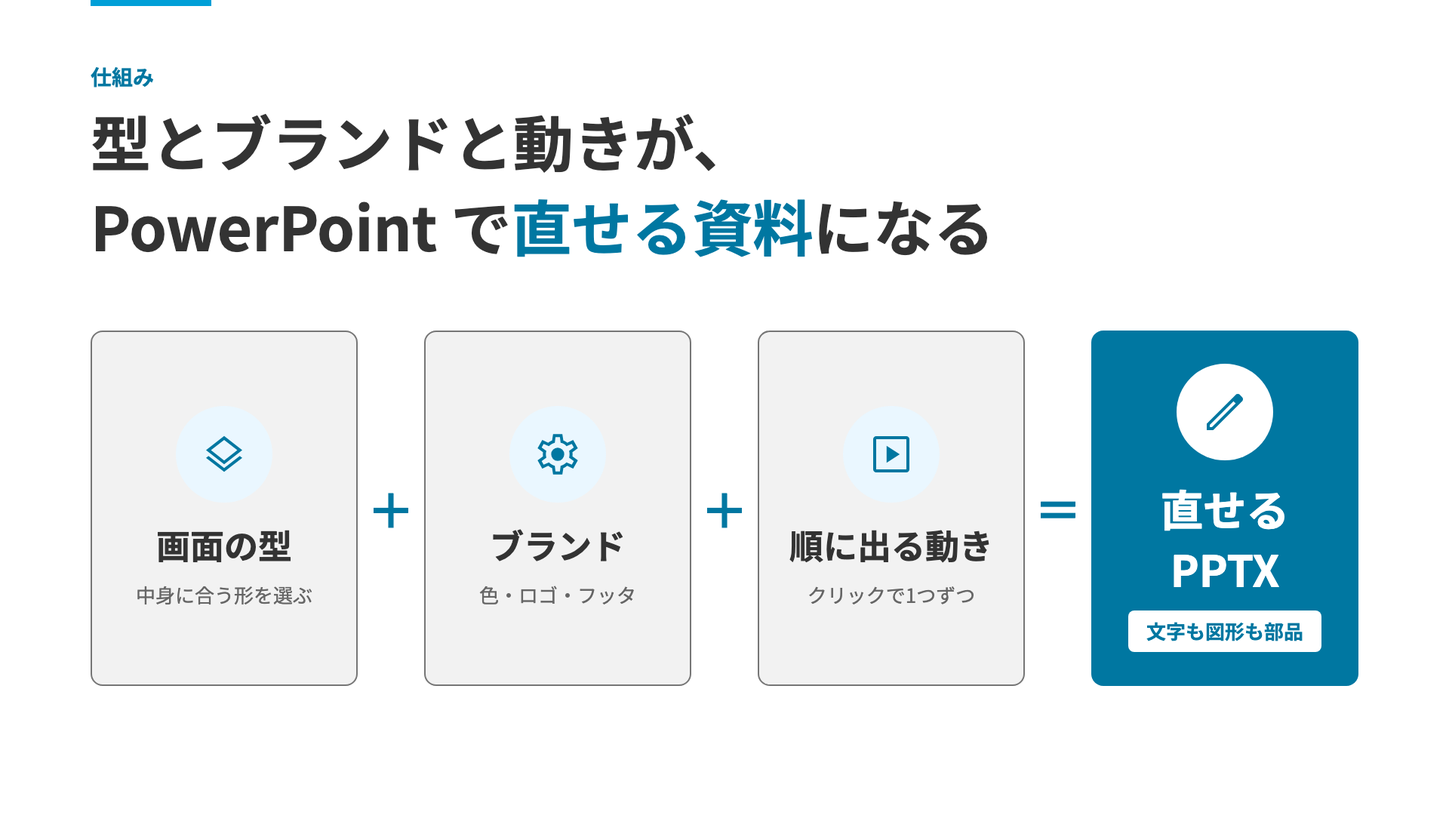
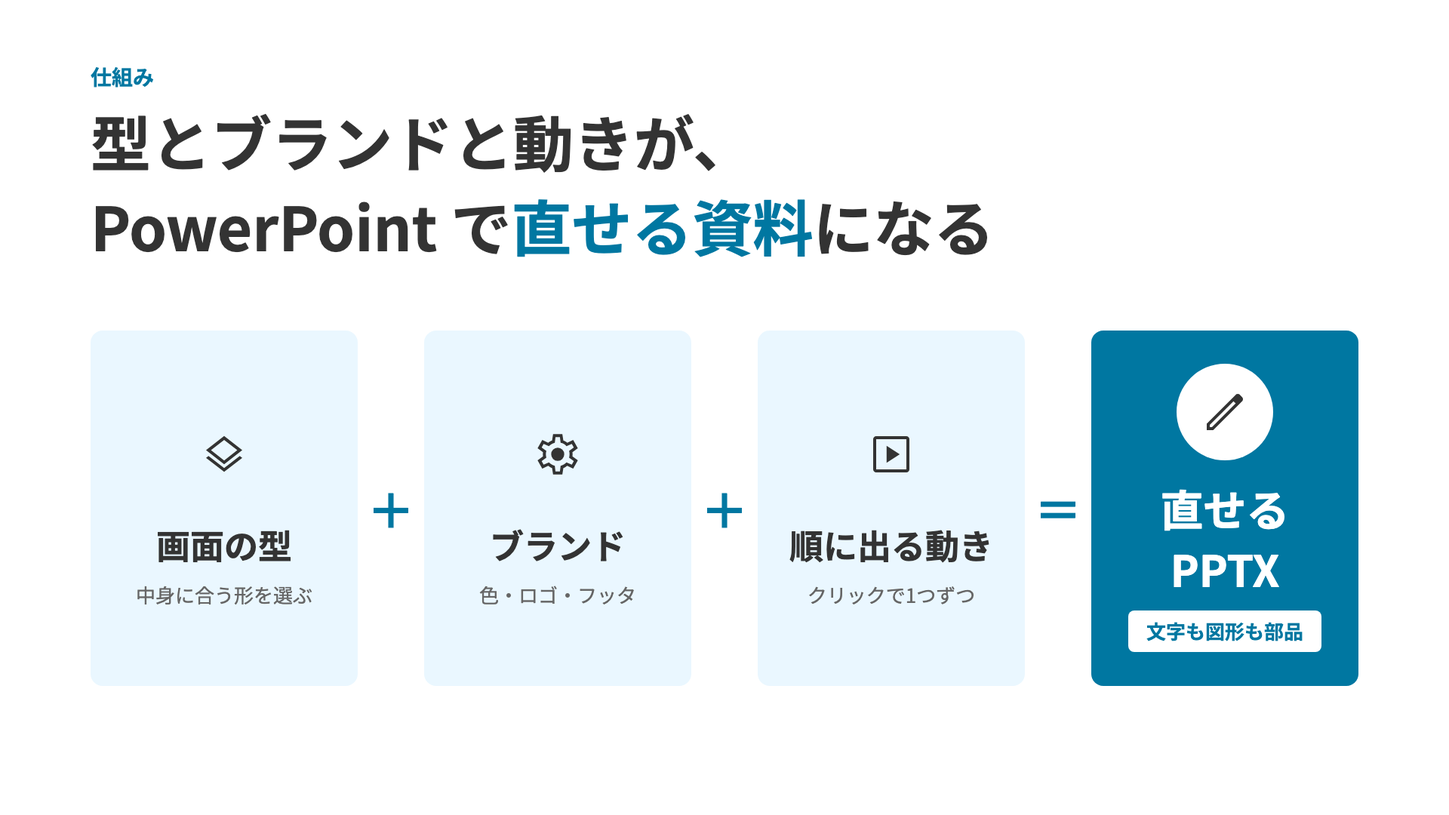
fix: 型の数の見本と台本の文字の検査を layers に合わせ、プレゼンの見本を新しい既定で作り直す
- プレゼンの見本の型の数を 29 から 30 にする
- 台本の文字の検査（jlint）に、layers の links（矢印の名札）を表示する文字のキーとして足す
- samples/build.py でプレゼンの見本の built/ を作り直す（standard の見た目が変わったため。絵の枠は無く、画像生成は呼ばない）

diff --git a/samples/presentation/built/run/present/deck.html b/samples/presentation/built/run/present/deck.html
@@ -9,7 +9,7 @@
     <style>
       @font-face { font-family: "Noto Sans JP"; font-weight: 400; src: url("file://{{HOME}}/fonts/noto-sans-jp/NotoSansJP-Regular.ttf"); ascent-override: 93.60%; descent-override: 6.40%; line-gap-override: 0%; }
       @font-face { font-family: "Noto Sans JP"; font-weight: 700; src: url("file://{{HOME}}/fonts/noto-sans-jp/NotoSansJP-Bold.ttf"); ascent-override: 93.60%; descent-override: 6.40%; line-gap-override: 0%; }
-      :root { --bg: #ffffff; --ink: #333333; --surface: #f2f2f2; --muted: #666666; --faint: #767676; --rule: #767676; --rule-weak: #949494; --bar: #949494; --tint: #eaf7ff; --primary-soft: #eaf7ff; --accent-soft: #eaf7ff; --primary: #0077a1; --primary-text: #0077a1; --primary-mark: #0096cb; --primary-decor: #009fd7; --primary-strong: #0077a1; --on-primary: #ffffff; --primary-on-dark: #79cdea; --accent: #0077a1; --accent-text: #0077a1; --accent-mark: #0096cb; --accent-decor: #009fd7; --accent-strong: #0077a1; --on-accent: #ffffff; --accent-on-dark: #79cdea; --scrim: rgba(51, 51, 51, 0.86); --scrim-0: rgba(51, 51, 51, 0); --scrim-quote: rgba(51, 51, 51, 0.86); --veil: rgba(255, 255, 255, 0.94); --veil-0: rgba(255, 255, 255, 0); --primary-on-light: #00769f; --accent-on-light: #00769f; --success-1: #259d63; --success-2: #197a4b; --error-1: #ec0000; --error-2: #ce0000; --warning-yellow-1: #b78f00; --warning-yellow-2: #927200; --warning-orange-1: #fb5b01; --warning-orange-2: #c74700; }
+      :root { --bg: #ffffff; --ink: #333333; --surface: #f2f2f2; --muted: #666666; --faint: #767676; --rule: #767676; --rule-weak: #949494; --bar: #949494; --tint: #eaf7ff; --deep: #18232a; --deep-pop: #0db4f2; --tone-good-bg: #eef7f3; --tone-good-text: #197a4b; --tone-warn-bg: #f9f6eb; --tone-warn-text: #8b6c00; --tone-bad-bg: #fdebeb; --tone-bad-text: #ce0000; --tone-neutral-bg: #f2f2f2; --tone-neutral-text: #666666; --ref-bg: #f8f8f8; --ref-text: #666666; --ref-rule: #767676; --group-a-bg: #eef7f3; --group-a-text: #197a4b; --group-a-rule: #259d63; --group-b-bg: #fff2eb; --group-b-text: #c54600; --group-b-rule: #f75900; --group-c-bg: #eff2ff; --group-c-text: #0017c1; --group-c-rule: #3460fb; --bar-good-strong: #005e37; --bar-good-strong-text: #197a4b; --bar-good: #007f4b; --bar-good-text: #197a4b; --bar-good-soft: #279e64; --bar-good-soft-text: #197a4b; --bar-warn: #ad8700; --bar-warn-text: #886a00; --bar-bad: #ec0000; --bar-bad-text: #ce0000; --primary-soft: #eaf7ff; --accent-soft: #eaf7ff; --on-deep: #ffffff; --primary: #0077a1; --primary-text: #0077a1; --primary-mark: #0096cb; --primary-decor: #009fd7; --primary-strong: #0077a1; --on-primary: #ffffff; --primary-fill: #0db4f2; --on-primary-fill: #333333; --primary-on-dark: #79cdea; --accent: #0077a1; --accent-text: #0077a1; --accent-mark: #0096cb; --accent-decor: #009fd7; --accent-strong: #0077a1; --on-accent: #ffffff; --accent-fill: #0db4f2; --on-accent-fill: #333333; --accent-on-dark: #79cdea; --scrim: rgba(51, 51, 51, 0.86); --scrim-0: rgba(51, 51, 51, 0); --scrim-quote: rgba(51, 51, 51, 0.86); --veil: rgba(255, 255, 255, 0.94); --veil-0: rgba(255, 255, 255, 0); --primary-on-light: #00769f; --accent-on-light: #00769f; --success-1: #259d63; --success-2: #197a4b; --error-1: #ec0000; --error-2: #ce0000; --warning-yellow-1: #b78f00; --warning-yellow-2: #927200; --warning-orange-1: #fb5b01; --warning-orange-2: #c74700; }
       * { margin: 0; padding: 0; box-sizing: border-box; }
       body { background-color: #8a8f99; }
       section[data-slide] {
@@ -149,6 +149,12 @@
       .chip.done .chip-t { color: var(--primary-text); }
       .chip.todo { background-color: var(--bg); color: var(--ink); border: 2px solid var(--rule); }
       .chip.line { background-color: var(--bg); color: var(--ink); border: 2px solid var(--rule); }
+      .chip.group { background-color: var(--bg); border: 2px solid; }
+      .chip.group-a { color: var(--group-a-text); border-color: var(--group-a-text); }
+      .chip.group-b { color: var(--group-b-text); border-color: var(--group-b-text); }
+      .chip.group-c { color: var(--group-c-text); border-color: var(--group-c-text); }
+      .chip.ref { background-color: var(--bg); color: var(--ref-text); border: 2px solid var(--ref-text); }   /* 参考の札: 退いた色の語と枠（色だけで示さない） */
+      .chip.notice-tag { background-color: #ffffff; border: 2px solid; margin-bottom: 0; }   /* notice の札: 枠の白い面に kind の色（-2）の輪郭と文字 */
       .chips { display: flex; align-items: center; margin-bottom: 24px; }
       .chips .cmp-chip { margin-bottom: 0; }
       .chips .chip { margin-bottom: 0; margin-left: 16px; }
@@ -217,7 +223,18 @@
       .bar-value { font-size: 36px; line-height: 1.4; font-weight: 700; margin-bottom: 8px; white-space: nowrap; }
       .bar { border-radius: 8px 8px 0 0; background-color: var(--bar); }
       .bar.hl { background-color: var(--accent-mark); }
+      .bar.tone-good-strong { background-color: var(--bar-good-strong); }
+      .bar.tone-good { background-color: var(--bar-good); }
+      .bar.tone-good-soft { background-color: var(--bar-good-soft); }
+      .bar.tone-warn { background-color: var(--bar-warn); }
+      .bar.tone-bad { background-color: var(--bar-bad); }
+      .bar-value.tone-good-strong { color: var(--bar-good-strong-text); }
+      .bar-value.tone-good { color: var(--bar-good-text); }
+      .bar-value.tone-good-soft { color: var(--bar-good-soft-text); }
+      .bar-value.tone-warn { color: var(--bar-warn-text); }
+      .bar-value.tone-bad { color: var(--bar-bad-text); }
       .bar-label { position: absolute; font-size: 28px; line-height: 1.5; text-align: center; color: var(--ink); }
+      .bar-label.bold { font-weight: 700; }
       .bar-label.hl { font-weight: 700; color: var(--accent-text); }
       .baseline { position: absolute; height: 4px; background-color: var(--rule); }
       .bar-unit { position: absolute; font-size: 22px; line-height: 1.5; color: var(--muted); }
@@ -237,6 +254,20 @@
       .td.hl div { font-weight: 700; }
       .tr.th .td.hl { background-color: var(--accent-strong); }
       .tr.th .td.hl div { color: var(--on-accent); }
+      .td.tone-good { background-color: var(--tone-good-bg); }
+      .td.tone-warn { background-color: var(--tone-warn-bg); }
+      .td.tone-bad { background-color: var(--tone-bad-bg); }
+      .td.tone-good div, .td.tone-good em { color: var(--tone-good-text); }
+      .td.tone-warn div, .td.tone-warn em { color: var(--tone-warn-text); }
+      .td.tone-bad div, .td.tone-bad em { color: var(--tone-bad-text); }
+      .tr.dim .td div, .tr.dim .td em { color: var(--muted); }
+      .tone-legend { position: absolute; display: flex; align-items: center; height: 33px; }
+      .tone-legend-item { display: flex; align-items: center; margin-right: 40px; }
+      .tone-legend-swatch { width: 24px; height: 24px; margin-right: 16px; border: 2px solid var(--muted); border-radius: 4px; background-color: var(--muted); }
+      .tone-legend-text { line-height: 1.5; color: var(--muted); white-space: nowrap; }
+      .tone-legend-item.tone-good .tone-legend-swatch { background-color: var(--tone-good-bg); border-color: var(--tone-good-text); }
+      .tone-legend-item.tone-warn .tone-legend-swatch { background-color: var(--tone-warn-bg); border-color: var(--tone-warn-text); }
+      .tone-legend-item.tone-bad .tone-legend-swatch { background-color: var(--tone-bad-bg); border-color: var(--tone-bad-text); }
 
       /* 写真 */
       .scrim { position: absolute; display: flex; flex-direction: column; background-color: var(--scrim); border-radius: 12px; padding: 48px 56px; }
@@ -296,7 +327,15 @@
       .kpi-value { line-height: 1.0; font-weight: 700; }
       .kpi-unit { line-height: 1.0; font-weight: 700; margin-left: 16px; }
       .kpi.hl .kpi-value, .kpi.hl .kpi-unit { color: var(--accent-text); }
-      .kpi-delta { font-size: 28px; line-height: 1.5; font-weight: 700; margin-top: 16px; }
+      .kpi.group-a { background-color: var(--group-a-bg); border-color: var(--group-a-rule); }
+      .kpi.group-b { background-color: var(--group-b-bg); border-color: var(--group-b-rule); }
+      .kpi.group-c { background-color: var(--group-c-bg); border-color: var(--group-c-rule); }
+      .kpi.ref { background-color: var(--ref-bg); border: 2px dashed var(--ref-rule); }   /* 参考: 退いた地・点線の枠・一段薄い文字（ラベル・数字・単位） */
+      .kpi.ref .kpi-label, .kpi.ref .kpi-value, .kpi.ref .kpi-unit { color: var(--ref-text); }
+      .kpi-delta { align-self: flex-start; font-size: 28px; line-height: 1.5; font-weight: 700; margin-top: 16px; padding: 8px 16px; border: 2px solid; border-radius: 9999px; }   /* 枠は tone の文字色（地の淡い色だけでは面に消える） */
+      .kpi-delta.tone-good { background-color: var(--tone-good-bg); color: var(--tone-good-text); border-color: var(--tone-good-text); }
+      .kpi-delta.tone-bad { background-color: var(--tone-bad-bg); color: var(--tone-bad-text); border-color: var(--tone-bad-text); }
+      .kpi-delta.tone-neutral { background-color: var(--tone-neutral-bg); color: var(--tone-neutral-text); border-color: var(--tone-neutral-text); }
       .kpi-note { font-size: 22px; line-height: 1.5; color: var(--muted); margin-top: 8px; word-break: auto-phrase; }
 
       /* 折れ線（目盛り線は白の地の上だけの罫 rule-weak） */
@@ -342,9 +381,9 @@
       .callout-title { font-size: 36px; line-height: 1.4; font-weight: 700; color: var(--accent-text); word-break: auto-phrase; }
       /* お知らせの枠（DADS の注釈ブロック・ADR 0021）: 白い面・意味の色の枠 2px と左の色帯 16。種類はアイコン＋語でも示す */
       .col { display: flex; flex-direction: column; }
-      .notice { display: flex; flex-direction: row; flex: none; background-color: #ffffff; border: 2px solid var(--rule); }
+      .notice { display: flex; flex-direction: row; flex: none; background-color: var(--rule); border: 2px solid var(--rule); }   /* 地と枠は kind の色（左の帯の色）。白い面は .nt-main。帯は幅だけ持つ（角を丸めても帯が角から出ず、PPTX でも同じ形） */
       .nt-band { width: 16px; flex: none; align-self: stretch; }
-      .nt-main { display: flex; flex-direction: column; flex: 1; padding: 24px 40px; }
+      .nt-main { display: flex; background-color: #ffffff; flex-direction: column; flex: 1; padding: 24px 40px; }
       .nt-head { display: flex; align-items: center; margin-bottom: 8px; }
       .nt-label { line-height: 1.5; font-weight: 700; }
       .nt-title { line-height: 1.4; font-weight: 700; word-break: auto-phrase; }
@@ -368,8 +407,68 @@
       .st-dot { display: flex; align-items: center; justify-content: center; border-radius: 9999px; font-size: 32px; line-height: 1.0; font-weight: 700; }
       .st-title { line-height: 1.4; font-weight: 700; word-break: auto-phrase; }
       .st-body { line-height: 1.6; color: var(--muted); margin-top: 8px; word-break: auto-phrase; }
+      /* 主役を大きく置く組み（layout: lead）: 左は主役の色の面、右は残りを縦に積む */
+      .lead-panel { position: absolute; display: flex; flex-direction: column; justify-content: space-between; background-color: var(--primary-fill); border-radius: 16px; }
+      .lead-label { line-height: 1.5; font-weight: 700; color: var(--on-primary-fill); }
+      .lead-value { line-height: 1.2; font-weight: 700; color: var(--on-primary-fill); margin-bottom: 8px; }
+      .lead-title { line-height: 1.4; font-weight: 700; color: var(--on-primary-fill); word-break: auto-phrase; }
+      .lead-body { line-height: 1.6; color: var(--on-primary-fill); margin-top: 16px; word-break: auto-phrase; }
+      .lead-panel em { color: var(--on-primary-fill); }
+      .lead-row { position: absolute; flex-direction: row; align-items: center; min-height: 0; padding: 0 40px; }
+      .lead-row-value { line-height: 1.4; font-weight: 700; color: var(--primary-text); }
+      .lead-row-title { line-height: 1.4; font-weight: 700; word-break: auto-phrase; }
+      .lead-row-body { line-height: 1.5; color: var(--muted); word-break: auto-phrase; }
+      /* 構成図（層・箱・矢印）: 層は淡い面に枠・箱は白い面に枠（強める箱は差し色の太い枠）・矢印の名札は白い面の札 */
+      .dg-band { position: absolute; background-color: var(--surface); border: 2px solid var(--rule); border-radius: 16px; }
+      .dg-rowlabel { position: absolute; display: flex; align-items: center; }
+      .dg-rowlabel div { font-weight: 700; color: var(--primary-text); word-break: auto-phrase; }
+      .dg-node { position: absolute; display: flex; align-items: center; background-color: var(--bg); border: 2px solid var(--rule); border-radius: 12px; padding: 0 24px; }
+      .dg-node.hl { background-color: var(--accent-soft); border: 4px solid var(--accent-mark); }
+      .dg-kicker { line-height: 1.5; font-weight: 700; color: var(--primary-text); }
+      .dg-title { line-height: 1.4; font-weight: 700; word-break: auto-phrase; }
+      .dg-body { line-height: 1.5; color: var(--muted); word-break: auto-phrase; }
+      .dg-pill { position: absolute; display: flex; align-items: center; justify-content: center; background-color: var(--bg); border: 2px solid var(--rule);
+                 border-radius: 9999px; line-height: 1.0; font-weight: 700; white-space: nowrap; }
+      .dg-pill.hl { border-color: var(--accent-mark); color: var(--accent-text); }
+      .dg-hlabel { position: absolute; line-height: 1.4; font-weight: 700; text-align: center; word-break: auto-phrase; }
+      .dg-hlabel.hl { color: var(--accent-text); }
       /* スタイルの見た目の調子（look・ADR 0005 追記）。deck.py が差し込む。standard は空 */
-      
+      .card, .cmp, .kpi, .callout { background-color: var(--primary-soft); border-color: var(--primary-soft); }
+      .card.hl, .cmp.hl, .kpi.hl { border-color: var(--accent-soft); }
+      .card-bar { display: none; }
+      .dg-band { background-color: var(--primary-soft); border-color: var(--primary-soft); }
+      .dg-node { border-color: var(--bg); }
+      .card { min-height: 240px; }
+      .card.lead-row, .card.sum-col { min-height: 0; }
+      .tr.th { background-color: var(--primary-fill); border-bottom-color: var(--primary-fill); }
+      .tr.th .td div { color: var(--on-primary-fill); }
+      .tr { border-bottom-color: var(--rule-weak); }
+      .take { background-color: var(--primary-fill); border-color: var(--primary-fill); }
+      .take-t { color: var(--on-primary-fill); }
+      section[data-slide] { --take-icon: var(--on-primary-fill); --disc-ground: var(--primary-fill); --disc-ink: var(--on-primary-fill); }
+      section[data-type="cover"], section[data-type="section"] { background-color: var(--primary-fill); }
+      .cover-title, .cover-subtitle, .cover-label, .cover-meta div, .sec-title, .sec-subtitle, .sec-label, .sec-no, .cover-title em, .sec-title em { color: var(--on-primary-fill); }
+      .cover-rule { background-color: var(--on-primary-fill); }
+      .sec-panel { background-color: var(--primary-fill); }
+      .band { display: none; }
+      .card.hl, .cmp.hl, .kpi.hl { background-color: var(--accent-strong); border-color: var(--accent-strong); }
+      .card.hl div, .cmp.hl div, .kpi.hl div:where(:not(.kpi-delta)), .card.hl em, .cmp.hl em, .kpi.hl em { color: var(--on-accent); }
+      .card.hl .card-bar, .cmp.hl .cmp-dot { background-color: var(--on-accent); }
+      .kpi.hl .kpi-delta { border-color: transparent; }
+      .kpi.hl .kpi-value, .kpi.hl .kpi-unit { color: var(--on-accent); }
+      .cmp.hl .cmp-chip { background-color: var(--on-accent); color: var(--accent-strong); }
+      .card.hl .chip, .cmp.hl .chip, .kpi.hl .chip { background-color: var(--on-accent); color: var(--accent-strong); }
+      section[data-type="statement"] { background-color: var(--deep); }
+      section[data-type="statement"] div, section[data-type="statement"] em { color: var(--on-deep); }
+      section[data-type="statement"] .stmt-bar, section[data-type="statement"] .band { background-color: var(--on-deep); }
+      .take { background-color: var(--deep); border-color: var(--deep); }
+      .take-t { color: var(--on-deep); }
+      section[data-slide] { --take-icon: var(--deep-pop); }
+      .tr.th { background-color: var(--deep); border-bottom-color: var(--deep); }
+      .tr.th .td div { color: var(--on-deep); }
+      section[data-type="closing"] { background-color: var(--deep); }
+      section[data-type="closing"] .headline, section[data-type="closing"] .li-title, section[data-type="closing"] .li-body, section[data-type="closing"] .sub, section[data-type="closing"] .footer, section[data-type="closing"] .pageno { color: var(--on-deep); }
+      section[data-type="closing"] .kicker, section[data-type="closing"] .headline em { color: var(--deep-pop); }
     </style>
   </head>
   <body>
@@ -384,13 +483,13 @@
     <section data-slide data-type="equation" data-transition="fade">
       <div class="band" data-keep="band" data-name="上の帯"></div>
       <div class="head" style="width:1680px; top:80px"><div class="kicker" style="font-size:28px" data-name="小見出し">仕組み</div><h1 class="headline" style="font-size:80px; line-height:1.4" data-step="0" data-fx="rise" data-name="見出し">型とブランドと動きが、PowerPoint で<em>直せる資料</em>になる</h1></div>
-      <div class="center" style="left:120px; top:394px; width:1680px; height:558px;"><div class="row" style="height:471px"><div class="card eq-box" style="width:354.00px" data-step="1" data-fx="rise" data-delay="100" data-name="要素1"><div class="icon-disc" style="width:128px; height:128px; border-radius:9999px; background-color:var(--tint); margin-bottom:24px;"><svg width="64" height="64" viewBox="0 -960 960 960"><path d="M480-130 120-410l50-37 310 241 310-241 50 37-360 280Zm0-152L120-562l360-280 360 280-360 280Zm0-301Zm0 225 262-204-262-204-262 204 262 204Z" style="fill:var(--primary-text)"/></svg></div><div class="eq-title" style="font-size:45px">画面の型</div><div class="eq-body" style="font-size:26px">中身に合う形を選ぶ</div></div><div class="eq-op" style="width:88px" data-step="2" data-fx="pop" data-name="＋1">＋</div><div class="card eq-box" style="width:354.00px" data-step="2" data-fx="rise" data-delay="100" data-name="要素2"><div class="icon-disc" style="width:128px; height:128px; border-radius:9999px; background-color:var(--tint); margin-bottom:24px;"><svg width="64" height="64" viewBox="0 -960 960 960"><path d="m388-80-20-126q-19-7-40-19t-37-25l-118 54-93-164 108-79q-2-9-2.5-20.5T185-480q0-9 .5-20.5T188-521L80-600l93-164 118 54q16-13 37-25t40-18l20-127h184l20 126q19 7 40.5 18.5T669-710l118-54 93 164-108 77q2 10 2.5 21.5t.5 21.5q0 10-.5 21t-2.5 21l108 78-93 164-118-54q-16 13-36.5 25.5T592-206L572-80H388Zm48-60h88l14-112q33-8 62.5-25t53.5-41l106 46 40-72-94-69q4-17 6.5-33.5T715-480q0-17-2-33.5t-7-33.5l94-69-40-72-106 46q-23-26-52-43.5T538-708l-14-112h-88l-14 112q-34 7-63.5 24T306-642l-106-46-40 72 94 69q-4 17-6.5 33.5T245-480q0 17 2.5 33.5T254-413l-94 69 40 72 106-46q24 24 53.5 41t62.5 25l14 112Zm44-210q54 0 92-38t38-92q0-54-38-92t-92-38q-54 0-92 38t-38 92q0 54 38 92t92 38Zm0-130Z" style="fill:var(--primary-text)"/></svg></div><div class="eq-title" style="font-size:45px">ブランド</div><div class="eq-body" style="font-size:26px">色・ロゴ・フッタ</div></div><div class="eq-op" style="width:88px" data-step="3" data-fx="pop" data-name="＋2">＋</div><div class="card eq-box" style="width:354.00px" data-step="3" data-fx="rise" data-delay="100" data-name="要素3"><div class="icon-disc" style="width:128px; height:128px; border-radius:9999px; background-color:var(--tint); margin-bottom:24px;"><svg width="64" height="64" viewBox="0 -960 960 960"><path d="m387-311 261-169-261-169v338ZM180-120q-24 0-42-18t-18-42v-600q0-24 18-42t42-18h600q24 0 42 18t18 42v600q0 24-18 42t-42 18H180Zm0-60h600v-600H180v600Zm0-600v600-600Z" style="fill:var(--primary-text)"/></svg></div><div class="eq-title" style="font-size:45px">順に出る動き</div><div class="eq-body" style="font-size:26px">クリックで1つずつ</div></div><div class="eq-op" style="width:88px" data-step="4" data-fx="pop" data-name="＝">＝</div><div class="eq-box eq-res" style="width:354.00px" data-step="4" data-fx="pop" data-delay="150" data-name="答え"><div class="icon-disc" style="width:128px; height:128px; border-radius:9999px; background-color:var(--on-primary); margin-bottom:24px;"><svg width="64" height="64" viewBox="0 -960 960 960"><path d="M180-180h44l472-471-44-44-472 471v44Zm-60 60v-128l575-574q8-8 19-12.5t23-4.5q11 0 22 4.5t20 12.5l44 44q9 9 13 20t4 22q0 11-4.5 22.5T823-694L248-120H120Zm659-617-41-41 41 41Zm-105 64-22-22 44 44-22-22Z" style="fill:var(--primary-text)"/></svg></div><div class="eq-title" style="font-size:57px">直せる PPTX</div><div class="eq-chip" style="font-size:26px">文字も図形も部品</div></div></div></div>
+      <div class="center" style="left:120px; top:394px; width:1680px; height:558px;"><div class="row" style="height:471px"><div class="card eq-box" style="width:354.00px" data-step="1" data-fx="rise" data-delay="100" data-name="要素1"><div class="icon-disc" style="width:128px; height:128px; border-radius:9999px; background-color:var(--tint); margin-bottom:24px;"><svg width="64" height="64" viewBox="0 -960 960 960"><path d="M480-130 120-410l50-37 310 241 310-241 50 37-360 280Zm0-152L120-562l360-280 360 280-360 280Zm0-301Zm0 225 262-204-262-204-262 204 262 204Z" style="fill:var(--disc-ink, var(--primary-text))"/></svg></div><div class="eq-title" style="font-size:45px">画面の型</div><div class="eq-body" style="font-size:26px">中身に合う形を選ぶ</div></div><div class="eq-op" style="width:88px" data-step="2" data-fx="pop" data-name="＋1">＋</div><div class="card eq-box" style="width:354.00px" data-step="2" data-fx="rise" data-delay="100" data-name="要素2"><div class="icon-disc" style="width:128px; height:128px; border-radius:9999px; background-color:var(--tint); margin-bottom:24px;"><svg width="64" height="64" viewBox="0 -960 960 960"><path d="m388-80-20-126q-19-7-40-19t-37-25l-118 54-93-164 108-79q-2-9-2.5-20.5T185-480q0-9 .5-20.5T188-521L80-600l93-164 118 54q16-13 37-25t40-18l20-127h184l20 126q19 7 40.5 18.5T669-710l118-54 93 164-108 77q2 10 2.5 21.5t.5 21.5q0 10-.5 21t-2.5 21l108 78-93 164-118-54q-16 13-36.5 25.5T592-206L572-80H388Zm48-60h88l14-112q33-8 62.5-25t53.5-41l106 46 40-72-94-69q4-17 6.5-33.5T715-480q0-17-2-33.5t-7-33.5l94-69-40-72-106 46q-23-26-52-43.5T538-708l-14-112h-88l-14 112q-34 7-63.5 24T306-642l-106-46-40 72 94 69q-4 17-6.5 33.5T245-480q0 17 2.5 33.5T254-413l-94 69 40 72 106-46q24 24 53.5 41t62.5 25l14 112Zm44-210q54 0 92-38t38-92q0-54-38-92t-92-38q-54 0-92 38t-38 92q0 54 38 92t92 38Zm0-130Z" style="fill:var(--disc-ink, var(--primary-text))"/></svg></div><div class="eq-title" style="font-size:45px">ブランド</div><div class="eq-body" style="font-size:26px">色・ロゴ・フッタ</div></div><div class="eq-op" style="width:88px" data-step="3" data-fx="pop" data-name="＋2">＋</div><div class="card eq-box" style="width:354.00px" data-step="3" data-fx="rise" data-delay="100" data-name="要素3"><div class="icon-disc" style="width:128px; height:128px; border-radius:9999px; background-color:var(--tint); margin-bottom:24px;"><svg width="64" height="64" viewBox="0 -960 960 960"><path d="m387-311 261-169-261-169v338ZM180-120q-24 0-42-18t-18-42v-600q0-24 18-42t42-18h600q24 0 42 18t18 42v600q0 24-18 42t-42 18H180Zm0-60h600v-600H180v600Zm0-600v600-600Z" style="fill:var(--disc-ink, var(--primary-text))"/></svg></div><div class="eq-title" style="font-size:45px">順に出る動き</div><div class="eq-body" style="font-size:26px">クリックで1つずつ</div></div><div class="eq-op" style="width:88px" data-step="4" data-fx="pop" data-name="＝">＝</div><div class="eq-box eq-res" style="width:354.00px" data-step="4" data-fx="pop" data-delay="150" data-name="答え"><div class="icon-disc" style="width:128px; height:128px; border-radius:9999px; background-color:var(--on-primary); margin-bottom:24px;"><svg width="64" height="64" viewBox="0 -960 960 960"><path d="M180-180h44l472-471-44-44-472 471v44Zm-60 60v-128l575-574q8-8 19-12.5t23-4.5q11 0 22 4.5t20 12.5l44 44q9 9 13 20t4 22q0 11-4.5 22.5T823-694L248-120H120Zm659-617-41-41 41 41Zm-105 64-22-22 44 44-22-22Z" style="fill:var(--disc-ink, var(--primary-text))"/></svg></div><div class="eq-title" style="font-size:57px">直せる PPTX</div><div class="eq-chip" style="font-size:26px">文字も図形も部品</div></div></div></div>
       <aside class="notes">［クリック］［クリック］［クリック］［クリック］</aside>
     </section>
     <section data-slide data-type="big-number" data-transition="fade">
       <div class="band" data-keep="band" data-name="上の帯"></div>
       <div class="head" style="width:1680px; top:80px"><div class="kicker" style="font-size:28px" data-name="小見出し">型</div><h1 class="headline" style="font-size:80px; line-height:1.4" data-step="0" data-fx="rise" data-name="見出し">中身の形に合わせて、型を選んで組む</h1></div>
-      <div class="bn-main" style="left:120px; top:282px; width:920px; height:670px;"><div data-step="1" data-fx="pop" data-name="大きな数字"><div class="bn-row"><div class="bn-value" style="font-size:200px">29</div><div class="bn-unit" style="font-size:80px">種</div></div><div class="bn-label" style="font-size:45px">画面の型（比較・グラフ・表・手順など）</div></div></div>
+      <div class="bn-main" style="left:120px; top:282px; width:920px; height:670px;"><div data-step="1" data-fx="pop" data-name="大きな数字"><div class="bn-row"><div class="bn-value" style="font-size:200px">30</div><div class="bn-unit" style="font-size:80px">種</div></div><div class="bn-label" style="font-size:45px">画面の型（比較・グラフ・表・手順など）</div></div></div>
       <div class="bn-side" style="left:1120px; top:282px; width:680px; height:670px;"><div class="bn-item" style="border-bottom:2px solid var(--rule);" data-step="2" data-fx="rise" data-name="補足1"><div class="bn-item-value" style="font-size:64px">7</div><div class="bn-item-text" style="font-size:36px">この資料で使った型</div></div></div>
       <aside class="notes">型は中身の形で選びます。比べるなら比較や表、数字ならグラフ、順番なら矢羽根です。［クリック］この資料も、ページごとに違う型で組んでいます。［クリック］結論を1行で添える帯や、項目に添えるアイコンも使えます。</aside>
     </section>
@@ -403,14 +502,14 @@
     <section data-slide data-type="cards" data-transition="fade">
       <div class="band" data-keep="band" data-name="上の帯"></div>
       <div class="head" style="width:1680px; top:80px"><div class="kicker" style="font-size:28px" data-name="小見出し">向く資料</div><h1 class="headline" style="font-size:64px; line-height:1.4" data-step="0" data-fx="rise" data-name="見出し">人に説明して、あとで手を入れる資料に向いている</h1></div>
-      <div class="center" style="left:120px; top:260px; width:1680px; height:692px;"><div class="row" style="gap:48px"><div class="card" style="width:384px" data-step="1" data-fx="rise" data-name="カード1"><div class="icon-disc" style="width:96px; height:96px; border-radius:9999px; background-color:var(--tint); margin-bottom:24px;"><svg width="56" height="56" viewBox="0 -960 960 960"><path d="M660-160v-280h140v280H660Zm-250 0v-640h140v640H410Zm-250 0v-440h140v440H160Z" style="fill:var(--primary-text)"/></svg></div><div class="card-title" style="font-size:57px">報告・定例</div><div class="card-body" style="font-size:36px">数字と進み具合</div></div><div class="card" style="width:384px" data-step="2" data-fx="rise" data-name="カード2"><div class="icon-disc" style="width:96px; height:96px; border-radius:9999px; background-color:var(--tint); margin-bottom:24px;"><svg width="56" height="56" viewBox="0 -960 960 960"><path d="M324-111.5Q251-143 197-197t-85.5-127Q80-397 80-480t31.5-156Q143-709 197-763t127-85.5Q397-880 480-880t156 31.5Q709-817 763-763t85.5 127Q880-563 880-480t-31.5 156Q817-251 763-197t-127 85.5Q563-80 480-80t-156-31.5ZM721-239q99-99 99-241t-99-241q-99-99-241-99t-241 99q-99 99-99 241t99 241q99 99 241 99t241-99Zm-411-71q-70-70-70-170t70-170q70-70 170-70t170 70q70 70 70 170t-70 170q-70 70-170 70t-170-70Zm297.5-42.5Q660-405 660-480t-52.5-127.5Q555-660 480-660t-127.5 52.5Q300-555 300-480t52.5 127.5Q405-300 480-300t127.5-52.5Zm-184-71Q400-447 400-480t23.5-56.5Q447-560 480-560t56.5 23.5Q560-513 560-480t-23.5 56.5Q513-400 480-400t-56.5-23.5Z" style="fill:var(--primary-text)"/></svg></div><div class="card-title" style="font-size:57px">提案書</div><div class="card-body" style="font-size:36px">筋道を立てて説得</div></div><div class="card" style="width:384px" data-step="3" data-fx="rise" data-name="カード3"><div class="icon-disc" style="width:96px; height:96px; border-radius:9999px; background-color:var(--tint); margin-bottom:24px;"><svg width="56" height="56" viewBox="0 -960 960 960"><path d="M560-574v-48q33-14 67.5-21t72.5-7q26 0 51 4t49 10v44q-24-9-48.5-13.5T700-610q-38 0-73 9.5T560-574Zm0 220v-49q33-13.5 67.5-20.25T700-430q26 0 51 4t49 10v44q-24-9-48.5-13.5T700-390q-38 0-73 9t-67 27Zm0-110v-48q33-14 67.5-21t72.5-7q26 0 51 4t49 10v44q-24-9-48.5-13.5T700-500q-38 0-73 9.5T560-464ZM248-300q53.57 0 104.28 12.5Q403-275 452-250v-427q-45-30-97.62-46.5Q301.76-740 248-740q-38 0-74.5 9.5T100-707v434q31-14 70.5-20.5T248-300Zm264 50q50-25 98-37.5T712-300q38 0 78.5 6t69.5 16v-429q-34-17-71.82-25-37.82-8-76.18-8-54 0-104.5 16.5T512-677v427Zm-30 90q-51-38-111-58.5T248-239q-36.54 0-71.77 9T106-208q-23.1 11-44.55-3Q40-225 40-251v-463q0-15 7-27.5T68-761q42-20 87.39-29.5 45.4-9.5 92.61-9.5 63 0 122.5 17T482-731q51-35 109.5-52T712-800q46.87 0 91.93 9.5Q849-781 891-761q14 7 21.5 19.5T920-714v463q0 27.89-22.5 42.45Q875-194 853-208q-34-14-69.23-22.5Q748.54-239 712-239q-63 0-121 21t-109 58ZM276-489Z" style="fill:var(--primary-text)"/></svg></div><div class="card-title" style="font-size:57px">社内の資料</div><div class="card-body" style="font-size:36px">手順や決まりの共有</div></div><div class="card" style="width:384px" data-step="4" data-fx="rise" data-name="カード4"><div class="icon-disc" style="width:96px; height:96px; border-radius:9999px; background-color:var(--tint); margin-bottom:24px;"><svg width="56" height="56" viewBox="0 -960 960 960"><path d="M180-180h44l472-471-44-44-472 471v44Zm-60 60v-128l575-574q8-8 19-12.5t23-4.5q11 0 22 4.5t20 12.5l44 44q9 9 13 20t4 22q0 11-4.5 22.5T823-694L248-120H120Zm659-617-41-41 41 41Zm-105 64-22-22 44 44-22-22Z" style="fill:var(--primary-text)"/></svg></div><div class="card-title" style="font-size:57px">自分で仕上げる</div><div class="card-body" style="font-size:36px">PowerPoint で手直し</div></div></div></div>
+      <div class="center" style="left:120px; top:260px; width:1680px; height:692px;"><div class="row" style="gap:48px"><div class="card" style="width:384px; height:688px; justify-content:space-between" data-step="1" data-fx="rise" data-name="カード1"><div class="icon-disc" style="width:96px; height:96px; border-radius:9999px; background-color:var(--disc-ground, var(--tint)); margin-bottom:24px;"><svg width="56" height="56" viewBox="0 -960 960 960"><path d="M660-160v-280h140v280H660Zm-250 0v-640h140v640H410Zm-250 0v-440h140v440H160Z" style="fill:var(--disc-ink, var(--primary-text))"/></svg></div><div class="col"><div class="card-title" style="font-size:57px">報告・定例</div><div class="card-body" style="font-size:36px">数字と進み具合</div></div></div><div class="card" style="width:384px; height:688px; justify-content:space-between" data-step="2" data-fx="rise" data-name="カード2"><div class="icon-disc" style="width:96px; height:96px; border-radius:9999px; background-color:var(--disc-ground, var(--tint)); margin-bottom:24px;"><svg width="56" height="56" viewBox="0 -960 960 960"><path d="M324-111.5Q251-143 197-197t-85.5-127Q80-397 80-480t31.5-156Q143-709 197-763t127-85.5Q397-880 480-880t156 31.5Q709-817 763-763t85.5 127Q880-563 880-480t-31.5 156Q817-251 763-197t-127 85.5Q563-80 480-80t-156-31.5ZM721-239q99-99 99-241t-99-241q-99-99-241-99t-241 99q-99 99-99 241t99 241q99 99 241 99t241-99Zm-411-71q-70-70-70-170t70-170q70-70 170-70t170 70q70 70 70 170t-70 170q-70 70-170 70t-170-70Zm297.5-42.5Q660-405 660-480t-52.5-127.5Q555-660 480-660t-127.5 52.5Q300-555 300-480t52.5 127.5Q405-300 480-300t127.5-52.5Zm-184-71Q400-447 400-480t23.5-56.5Q447-560 480-560t56.5 23.5Q560-513 560-480t-23.5 56.5Q513-400 480-400t-56.5-23.5Z" style="fill:var(--disc-ink, var(--primary-text))"/></svg></div><div class="col"><div class="card-title" style="font-size:57px">提案書</div><div class="card-body" style="font-size:36px">筋道を立てて説得</div></div></div><div class="card" style="width:384px; height:688px; justify-content:space-between" data-step="3" data-fx="rise" data-name="カード3"><div class="icon-disc" style="width:96px; height:96px; border-radius:9999px; background-color:var(--disc-ground, var(--tint)); margin-bottom:24px;"><svg width="56" height="56" viewBox="0 -960 960 960"><path d="M560-574v-48q33-14 67.5-21t72.5-7q26 0 51 4t49 10v44q-24-9-48.5-13.5T700-610q-38 0-73 9.5T560-574Zm0 220v-49q33-13.5 67.5-20.25T700-430q26 0 51 4t49 10v44q-24-9-48.5-13.5T700-390q-38 0-73 9t-67 27Zm0-110v-48q33-14 67.5-21t72.5-7q26 0 51 4t49 10v44q-24-9-48.5-13.5T700-500q-38 0-73 9.5T560-464ZM248-300q53.57 0 104.28 12.5Q403-275 452-250v-427q-45-30-97.62-46.5Q301.76-740 248-740q-38 0-74.5 9.5T100-707v434q31-14 70.5-20.5T248-300Zm264 50q50-25 98-37.5T712-300q38 0 78.5 6t69.5 16v-429q-34-17-71.82-25-37.82-8-76.18-8-54 0-104.5 16.5T512-677v427Zm-30 90q-51-38-111-58.5T248-239q-36.54 0-71.77 9T106-208q-23.1 11-44.55-3Q40-225 40-251v-463q0-15 7-27.5T68-761q42-20 87.39-29.5 45.4-9.5 92.61-9.5 63 0 122.5 17T482-731q51-35 109.5-52T712-800q46.87 0 91.93 9.5Q849-781 891-761q14 7 21.5 19.5T920-714v463q0 27.89-22.5 42.45Q875-194 853-208q-34-14-69.23-22.5Q748.54-239 712-239q-63 0-121 21t-109 58ZM276-489Z" style="fill:var(--disc-ink, var(--primary-text))"/></svg></div><div class="col"><div class="card-title" style="font-size:57px">社内の資料</div><div class="card-body" style="font-size:36px">手順や決まりの共有</div></div></div><div class="card" style="width:384px; height:688px; justify-content:space-between" data-step="4" data-fx="rise" data-name="カード4"><div class="icon-disc" style="width:96px; height:96px; border-radius:9999px; background-color:var(--disc-ground, var(--tint)); margin-bottom:24px;"><svg width="56" height="56" viewBox="0 -960 960 960"><path d="M180-180h44l472-471-44-44-472 471v44Zm-60 60v-128l575-574q8-8 19-12.5t23-4.5q11 0 22 4.5t20 12.5l44 44q9 9 13 20t4 22q0 11-4.5 22.5T823-694L248-120H120Zm659-617-41-41 41 41Zm-105 64-22-22 44 44-22-22Z" style="fill:var(--disc-ink, var(--primary-text))"/></svg></div><div class="col"><div class="card-title" style="font-size:57px">自分で仕上げる</div><div class="card-body" style="font-size:36px">PowerPoint で手直し</div></div></div></div></div>
       <aside class="notes">［クリック］［クリック］［クリック］［クリック］</aside>
     </section>
     <section data-slide data-type="table" data-transition="fade">
       <div class="band" data-keep="band" data-name="上の帯"></div>
       <div class="head" style="width:1680px; top:80px"><div class="kicker" style="font-size:28px" data-name="小見出し">モードの選び方</div><h1 class="headline" style="font-size:80px; line-height:1.4" data-step="0" data-fx="rise" data-name="見出し">見せ方に合わせて、3つのモードから選ぶ</h1></div>
-      <div class="table" style="left:120px; top:282px; width:1680px;" data-step="1" data-fx="fade" data-name="表"><div class="tr th" style="height:112px"><div class="td" style="width:240px; justify-content:flex-start"><div style="font-size:28px; text-align:left; font-weight:700;">観点</div></div><div class="td hl" style="width:480px; justify-content:center"><div style="font-size:28px; text-align:center; font-weight:700;">プレゼン</div></div><div class="td" style="width:480px; justify-content:center"><div style="font-size:28px; text-align:center; font-weight:700;">ピッチ</div></div><div class="td" style="width:480px; justify-content:center"><div style="font-size:28px; text-align:center; font-weight:700;">モーション</div></div></div><div class="tr" style="height:112px"><div class="td" style="width:240px; justify-content:flex-start"><div style="font-size:28px; text-align:left; font-weight:700;">描き方</div></div><div class="td hl" style="width:480px; justify-content:center"><div style="font-size:28px; text-align:center; font-weight:700;">型で組む</div></div><div class="td" style="width:480px; justify-content:center"><div style="font-size:28px; text-align:center;">1枚ずつ画像生成</div></div><div class="td" style="width:480px; justify-content:center"><div style="font-size:28px; text-align:center;">クリックで進む Web</div></div></div><div class="tr" style="height:112px"><div class="td" style="width:240px; justify-content:flex-start"><div style="font-size:28px; text-align:left; font-weight:700;">書き出し</div></div><div class="td hl" style="width:480px; justify-content:center"><div style="font-size:28px; text-align:center; font-weight:700;">直せる PPTX・PDF</div></div><div class="td" style="width:480px; justify-content:center"><div style="font-size:28px; text-align:center;">絵の PPTX・PDF</div></div><div class="td" style="width:480px; justify-content:center"><div style="font-size:28px; text-align:center;">HTML 1枚</div></div></div><div class="tr" style="height:112px"><div class="td" style="width:240px; justify-content:flex-start"><div style="font-size:28px; text-align:left; font-weight:700;">向く場面</div></div><div class="td hl" style="width:480px; justify-content:center"><div style="font-size:28px; text-align:center; font-weight:700;">報告・提案・数字</div></div><div class="td" style="width:480px; justify-content:center"><div style="font-size:28px; text-align:center;">印象を残したいとき</div></div><div class="td" style="width:480px; justify-content:center"><div style="font-size:28px; text-align:center;">画面で見せる説明</div></div></div></div>
-      <div class="take" style="left:440px; top:864px; width:1040px; height:88px;" data-step="1" data-fx="fade" data-delay="500" data-name="締めの帯"><svg width="40" height="40" viewBox="0 -960 960 960"><path d="M453-280h60v-240h-60v240Zm50.5-323.2q9.5-9.2 9.5-22.8 0-14.45-9.48-24.22-9.48-9.78-23.5-9.78t-23.52 9.78Q447-640.45 447-626q0 13.6 9.48 22.8 9.48 9.2 23.5 9.2t23.52-9.2ZM480.27-80q-82.74 0-155.5-31.5Q252-143 197.5-197.5t-86-127.34Q80-397.68 80-480.5t31.5-155.66Q143-709 197.5-763t127.34-85.5Q397.68-880 480.5-880t155.66 31.5Q709-817 763-763t85.5 127Q880-563 880-480.27q0 82.74-31.5 155.5Q817-252 763-197.68q-54 54.31-127 86Q563-80 480.27-80Zm.23-60Q622-140 721-239.5t99-241Q820-622 721.19-721T480-820q-141 0-240.5 98.81T140-480q0 141 99.5 240.5t241 99.5Zm-.5-340Z" style="fill:var(--primary-text)"/></svg><div class="take-t" style="font-size:32px">モードは作るときに決め、あとから切り替えられません</div></div>
+      <div class="table" style="left:120px; top:282px; width:1680px;" data-step="1" data-fx="fade" data-name="表"><div class="tr th" style="height:112px"><div class="td" style="width:240px; justify-content:flex-start"><div style="font-size:28px; text-align:left; font-weight:700;">観点</div></div><div class="td hl" style="width:480px; justify-content:flex-start"><div style="font-size:28px; text-align:left; font-weight:700;">プレゼン</div></div><div class="td" style="width:480px; justify-content:flex-start"><div style="font-size:28px; text-align:left; font-weight:700;">ピッチ</div></div><div class="td" style="width:480px; justify-content:flex-start"><div style="font-size:28px; text-align:left; font-weight:700;">モーション</div></div></div><div class="tr" style="height:112px"><div class="td" style="width:240px; justify-content:flex-start"><div style="font-size:28px; text-align:left; font-weight:700;">描き方</div></div><div class="td hl" style="width:480px; justify-content:flex-start"><div style="font-size:28px; text-align:left; font-weight:700;">型で組む</div></div><div class="td" style="width:480px; justify-content:flex-start"><div style="font-size:28px; text-align:left;">1枚ずつ画像生成</div></div><div class="td" style="width:480px; justify-content:flex-start"><div style="font-size:28px; text-align:left;">クリックで進む Web</div></div></div><div class="tr" style="height:112px"><div class="td" style="width:240px; justify-content:flex-start"><div style="font-size:28px; text-align:left; font-weight:700;">書き出し</div></div><div class="td hl" style="width:480px; justify-content:flex-start"><div style="font-size:28px; text-align:left; font-weight:700;">直せる PPTX・PDF</div></div><div class="td" style="width:480px; justify-content:flex-start"><div style="font-size:28px; text-align:left;">絵の PPTX・PDF</div></div><div class="td" style="width:480px; justify-content:flex-start"><div style="font-size:28px; text-align:left;">HTML 1枚</div></div></div><div class="tr" style="height:112px"><div class="td" style="width:240px; justify-content:flex-start"><div style="font-size:28px; text-align:left; font-weight:700;">向く場面</div></div><div class="td hl" style="width:480px; justify-content:flex-start"><div style="font-size:28px; text-align:left; font-weight:700;">報告・提案・数字</div></div><div class="td" style="width:480px; justify-content:flex-start"><div style="font-size:28px; text-align:left;">印象を残したいとき</div></div><div class="td" style="width:480px; justify-content:flex-start"><div style="font-size:28px; text-align:left;">画面で見せる説明</div></div></div></div>
+      <div class="take" style="left:440px; top:864px; width:1040px; height:88px;" data-step="1" data-fx="fade" data-delay="500" data-name="締めの帯"><svg width="40" height="40" viewBox="0 -960 960 960"><path d="M453-280h60v-240h-60v240Zm50.5-323.2q9.5-9.2 9.5-22.8 0-14.45-9.48-24.22-9.48-9.78-23.5-9.78t-23.52 9.78Q447-640.45 447-626q0 13.6 9.48 22.8 9.48 9.2 23.5 9.2t23.52-9.2ZM480.27-80q-82.74 0-155.5-31.5Q252-143 197.5-197.5t-86-127.34Q80-397.68 80-480.5t31.5-155.66Q143-709 197.5-763t127.34-85.5Q397.68-880 480.5-880t155.66 31.5Q709-817 763-763t85.5 127Q880-563 880-480.27q0 82.74-31.5 155.5Q817-252 763-197.68q-54 54.31-127 86Q563-80 480.27-80Zm.23-60Q622-140 721-239.5t99-241Q820-622 721.19-721T480-820q-141 0-240.5 98.81T140-480q0 141 99.5 240.5t241 99.5Zm-.5-340Z" style="fill:var(--take-icon, var(--primary-text))"/></svg><div class="take-t" style="font-size:32px">モードは作るときに決め、あとから切り替えられません</div></div>
       <aside class="notes">［クリック］</aside>
     </section>
     <section data-slide data-type="closing" data-transition="fade">

diff --git a/src/quick_slide/writer/jlint.py b/src/quick_slide/writer/jlint.py
@@ -31,7 +31,7 @@ VISIBLE_KEYS = frozenset({
     "caption", "quote", "badge", "takeaway", "source", "footnote", "contact", "display", "meta", "number", "by", "position",
     "when", "before", "after", "delta", "tag", "name", "role", "initials", "low", "high", "bad_label", "good_label",
     "items", "points", "side", "left", "right", "center", "callout", "bars", "columns", "rows", "labels", "series",
-    "members", "x", "y", "quadrants", "result", "group", "legend", "summary",
+    "members", "x", "y", "quadrants", "result", "group", "legend", "summary", "links",
 })
 # 表示しない（台本のキーのうち、文字ではないもの）。`TYPES` の全キーはどちらかに入っている（試験で確かめる）
 HIDDEN_KEYS = frozenset({
